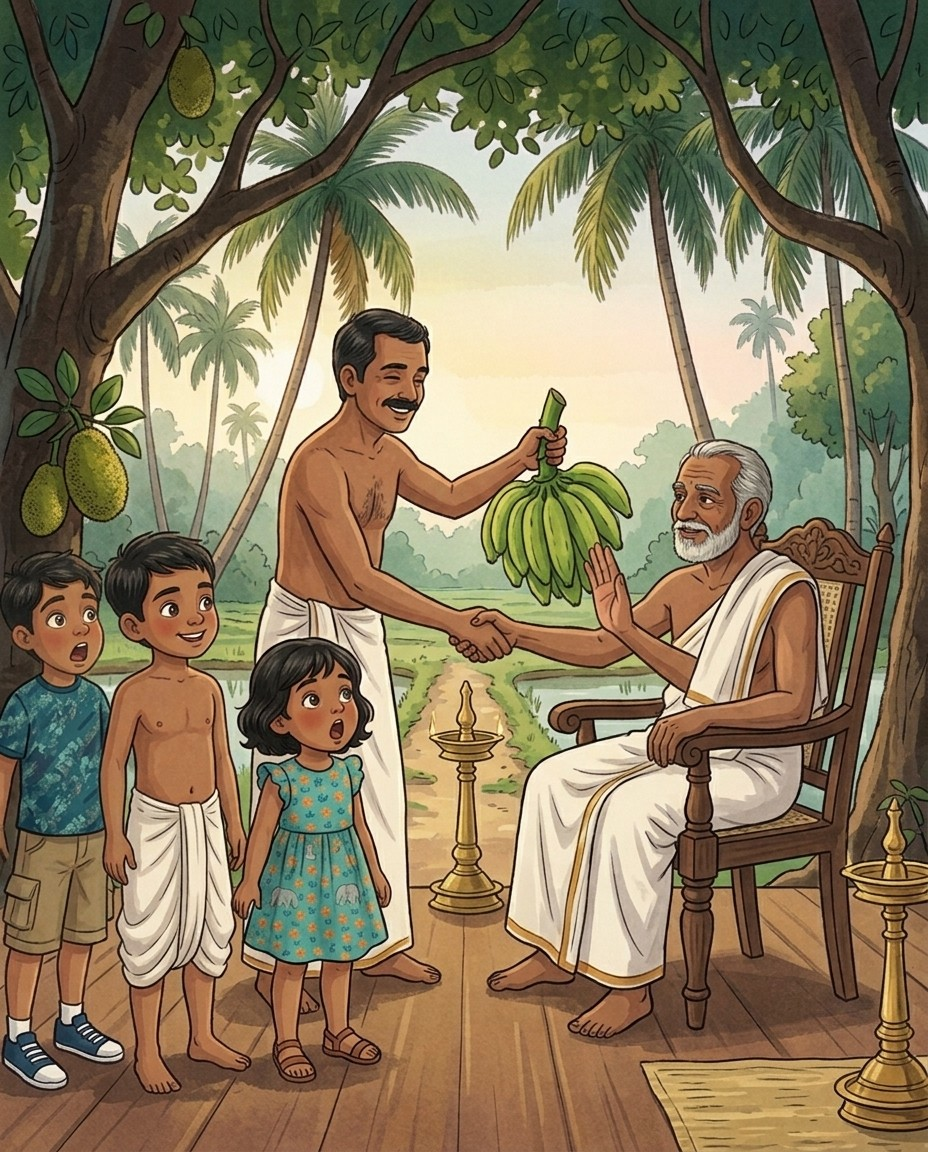
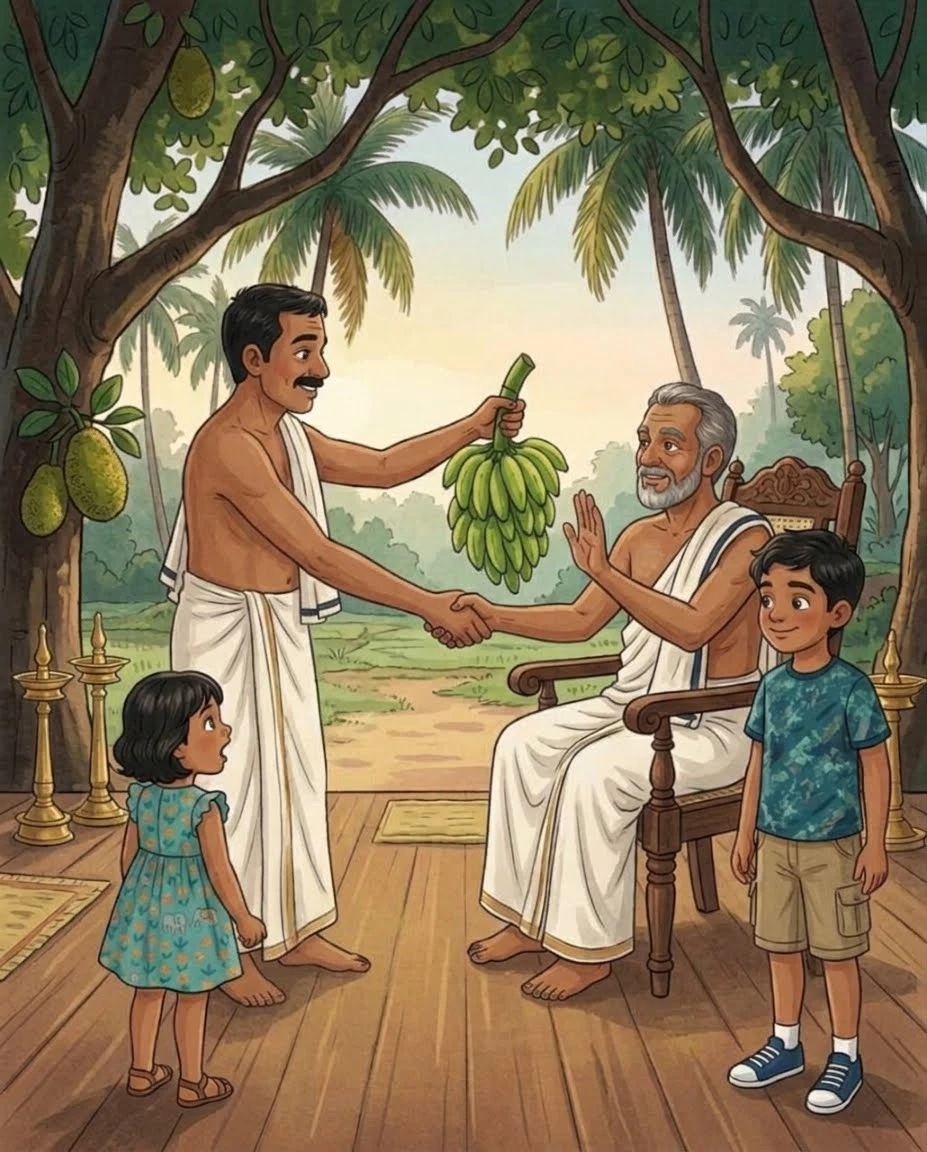
Comic: name Appu and Achu, fix panels 8 and 9, add share sheets
- Speech bubbles now name the children (Appu, Achu); names set once in
  story.js, which both the viewer and the share sheet read from
- Chapter captions moved above each picture in the viewer
- Panel 8: single little sister; panel 9: removed anachronistic skyline
- sheet.html renders the whole comic on one page; share/ holds the
  English and Malayalam share images

diff --git a/comics/chiyyaram-childhood/index.html b/comics/chiyyaram-childhood/index.html
@@ -81,7 +81,7 @@
 <main>
   <p class="eyebrow">A comic for the grandchildren · Chapter 1</p>
   <h1>Back to Chiyyaram</h1>
-  <p class="subtitle">Two children, their grandfather's handwritten pages, and a trip to the early 1950s.</p>
+  <p class="subtitle">Appu, Achu, their grandfather's handwritten pages, and a trip to the early 1950s.</p>
   <p class="notice">This is an <strong>adaptation for children</strong>, not the memoir itself. The captions are quoted word for word from the chapter. The speech bubbles, the time travel and the pictures (AI-generated illustrations) are imagined. <a href="../../stories/chiyyaram-childhood.html">Read the original chapter →</a></p>
 
   <div class="controls">
@@ -111,50 +111,8 @@
 
 <footer>An ongoing family archive · Korappath, Chiyyaram, Thrissur</footer>
 
+<script src="story.js"></script>
 <script>
-// What the children call their grandfather. ⚠ Confirm with the family (Achachan / Appooppan / Muthachan…).
-var GRANDPA = 'Achachan';
-
-// Captions (ml / en) are VERBATIM from stories/chiyyaram-childhood.html. "…" marks words left out; nothing is reworded.
-// Bubbles and narration are invented for the comic.
-var PANELS = [
-  { alt: 'Two children lying on a tiled floor at night, reading a stack of handwritten pages.',
-    bubbles: [['Big brother', 'This is ' + GRANDPA + "'s book. He's writing about when he was little."], ['Little sister', 'Read it to me!']] },
-  { alt: 'Golden ribbons of light rise from the pages and swirl around the amazed children.',
-    bubbles: [['Little sister', 'Chettaa… the letters are flying!']] },
-  { alt: 'The two children on a ridge between misty paddy fields at sunrise, egrets nearby.',
-    ml: 'ഞാൻ ജനിച്ചതും വളർന്നതും ചിയ്യാരം എന്നൊരു കുഗ്രാമത്തിലായിരുന്നു. കൊല്ലം 1945 സെപ്റ്റംബർ മാസം.',
-    en: 'I was born and raised in a small village called Chiyyaram, in September of the year 1945.' },
-  { alt: 'A village boy in a mundu stops on the ridge, staring at the two children.',
-    bubbles: [['Village boy', "Who are you? I've never seen you in Chiyyaram!"], ['Big brother (whispering)', 'Psst… I think that\'s ' + GRANDPA + '!', 'aside']] },
-  { alt: 'The village boy leads the children up a path toward a large tiled-roof ancestral home.',
-    ml: '…എന്റെ തറവാട് "കോരപ്പത്തു കളപ്പുരക്കൽ" ഞങ്ങളുടെ ഗ്രാമത്തിലും തൃശ്ശൂർ പരിസര പ്രദേശത്തും സാമാന്യം അറിയപ്പെട്ടിരുന്നതും…',
-    en: '…my ancestral home, "Korappath Kalappurakkal," was reasonably well known in our village and the surrounding Thrissur area…' },
-  { alt: 'Villagers wait on the wide wooden veranda while the three children peek from behind a pillar.',
-    ml: 'നാട്ടിലുള്ളവർ അവരുടെ പ്രശ്നങ്ങൾക്കും പരിതാപങ്ങൾക്കും അത്താണിയായിആവശ്യക്കാരെല്ലാം കണ്ടിരുന്നതും വലിയമ്മാവനെ തന്നെ ആയിരുന്നു.',
-    en: 'The people of the village saw him as their refuge for their troubles and grievances; everyone in need turned to my uncle himself.',
-    bubbles: [['Little sister', 'Why are all these people here?'], ['Village boy', "They've come to see Valiyammavan. Everyone does."]] },
-  { alt: 'The elder uncle sits calmly in a carved chair, listening to two farmers talking at once.',
-    ml: '…ആവശ്യക്കാരെല്ലാം മിക്ക ദിവസങ്ങളിലും അമ്മാവന്റെ സന്നിധിയിൽ എത്തുമായിരുന്നു തീർപ്പുകൾക്കായി.',
-    en: '…people in need would come to him on most days seeking resolutions.' },
-  { alt: 'A smiling farmer offers a bunch of bananas; the uncle raises his palm, kindly refusing.',
-    ml: 'ഒട്ടും പ്രതിഫലം പറ്റാതെ എല്ലാ തീർപ്പുകളും ഭംഗിയായി സന്ദർഭോചിതമായി അദ്ദേഹം നടത്തിയിരുന്നു.',
-    en: 'Without accepting any payment at all, he carried out every resolution gracefully and appropriately to the situation.',
-    bubbles: [['Little sister', 'He said no to the bananas!'], ['Big brother', 'He helps them for free.']] },
-  { alt: 'The uncle in white, holding a black umbrella, walks out of the gate while the children watch.',
-    ml: 'ചില ദിവസങ്ങളിൽ അവർക്കു വേണ്ടിയോ അന്യർക്കു വേണ്ടിയോ അമ്മാവൻ കോടതിയിൽ ഹാജരാകാറും ഉണ്ടായിരുന്നു. കോടതിയിലും വലിയ മതിപ്പുണ്ടായിരുന്നു അദ്ദേഹത്തിന്റെ ഇടപെടലുകൾക്ക്.',
-    en: 'On some days, my uncle would even appear in court, whether on their behalf or on behalf of others. Even in court, his interventions were held in great regard.' },
-  { alt: 'The three children, seen from behind, look out over wide green paddy fields and coconut groves.',
-    ml: 'കുടുംബപരമായി ഞങ്ങൾക്ക് ധാരാളം വസ്തുവകകളും പാട്ടഭൂമികളും കൃഷിയിടങ്ങളും ചുറ്റിലും പരിസര പ്രദേശങ്ങളിലും ഉണ്ടായിരുന്നു.',
-    en: 'As a family, we had a great deal of property, leased lands, and farmland in and around the surrounding areas.' },
-  { alt: 'At sunset the light swirls again; the little sister gives the village boy a sweet as everyone waves goodbye.',
-    bubbles: [['Little sister', 'Bye-bye, little ' + GRANDPA + '!'], ['Village boy (puzzled, waving)', 'Come back again!']] },
-  { alt: 'Back home, the children burst in; their grandfather looks up from his writing and smiles.',
-    bubbles: [['Big brother', GRANDPA + '! We saw Valiyammavan! He wouldn\'t even take the bananas!']],
-    narration: GRANDPA + ' looks up over his glasses, and smiles.',
-    end: true }
-];
-
 var current = 0;
 var lang = 'en';
 try { if (localStorage.getItem('korappath-lang') === 'ml') lang = 'ml'; } catch (e) {}

diff --git a/comics/chiyyaram-childhood/sheet.html b/comics/chiyyaram-childhood/sheet.html
@@ -1,0 +1,96 @@
+<!DOCTYPE html>
+<html lang="en">
+<head>
+<meta charset="UTF-8">
+<meta name="viewport" content="width=1200">
+<meta name="robots" content="noindex">
+<title>Back to Chiyyaram — share sheet</title>
+<!-- One-page layout of the whole comic, rendered to an image for sharing.
+     sheet.html = English captions, sheet.html?lang=ml = Malayalam captions.
+     Text comes from story.js (same source as the comic viewer). -->
+<link href="https://fonts.googleapis.com/css2?family=Fraunces:opsz,wght@9..144,400;9..144,600&family=Noto+Serif+Malayalam:wght@400;600&family=Work+Sans:wght@400;500&family=Space+Mono:wght@400;700&display=swap" rel="stylesheet">
+<style>
+  :root{
+    --oxide-dark:#3E1810; --oxide:#6B2A1E; --oxide-light:#8C3E2C;
+    --brass:#C6952F; --brass-light:#E8C776;
+    --ivory:#F1E9D6; --ivory-dim:#D8CBAE; --teak:#2B1D14;
+  }
+  *{ box-sizing:border-box; margin:0; padding:0; }
+  html,body{ width:1200px; background:var(--oxide-dark); color:var(--ivory); font-family:'Work Sans', sans-serif; }
+  .sheet{ padding:40px 40px 32px; }
+  header{ display:flex; justify-content:space-between; align-items:flex-end; gap:24px; padding-bottom:20px; margin-bottom:22px; border-bottom:1px solid rgba(198,149,47,0.4); }
+  .eyebrow{ font-family:'Space Mono', monospace; font-size:12px; letter-spacing:0.15em; text-transform:uppercase; color:var(--brass-light); }
+  h1{ font-family:'Fraunces', serif; font-weight:600; font-size:46px; line-height:1.1; margin:6px 0 4px; }
+  .mltitle{ font-family:'Noto Serif Malayalam', serif; font-size:19px; color:var(--ivory-dim); }
+  .by{ text-align:right; font-size:13px; color:var(--ivory-dim); line-height:1.5; max-width:380px; }
+  .by strong{ color:var(--ivory); font-weight:500; }
+
+  .grid{ display:grid; grid-template-columns:repeat(4, 1fr); gap:16px; align-items:stretch; }
+  .cell{ background:var(--oxide); border:1px solid rgba(198,149,47,0.35); border-radius:4px; overflow:hidden; }
+  .cell.wide{ grid-column:span 2; }
+  .cell img{ display:block; width:100%; height:330px; object-fit:cover; }
+  .body{ padding:10px 12px 12px; }
+  .num{ font-family:'Space Mono', monospace; font-size:10px; letter-spacing:0.12em; color:var(--brass-light); margin-bottom:6px; }
+  .cap{ background:var(--ivory); color:var(--teak); padding:7px 9px; border-radius:2px; box-shadow:2px 2px 0 var(--brass); font-family:'Fraunces', serif; font-size:13px; line-height:1.45; margin-bottom:8px; }
+  .cap.ml{ font-family:'Noto Serif Malayalam', serif; font-size:12.5px; line-height:1.75; }
+  .say{ font-size:13px; line-height:1.4; margin-bottom:5px; }
+  .say b{ font-family:'Space Mono', monospace; font-weight:400; font-size:9.5px; letter-spacing:0.08em; text-transform:uppercase; color:var(--brass-light); display:block; }
+  .narr{ font-style:italic; font-size:13px; color:var(--ivory-dim); margin-bottom:6px; }
+
+  .endcard{ grid-column:span 2; align-self:stretch; display:flex; flex-direction:column; justify-content:center; padding:28px; border:1px solid var(--brass); border-radius:4px; background:rgba(198,149,47,0.08); }
+  .endcard .tbc{ font-family:'Fraunces', serif; font-size:28px; color:var(--brass-light); margin:6px 0 14px; }
+  .endcard p{ font-size:14px; color:var(--ivory-dim); line-height:1.55; margin-bottom:10px; }
+  .endcard .url{ font-family:'Space Mono', monospace; font-size:15px; color:var(--ivory); }
+  footer{ margin-top:22px; padding-top:14px; border-top:1px solid rgba(198,149,47,0.25); font-size:11.5px; color:var(--ivory-dim); text-align:center; }
+</style>
+</head>
+<body>
+<div class="sheet">
+  <header>
+    <div>
+      <div class="eyebrow">A comic for the grandchildren · Chapter 1</div>
+      <h1>Back to Chiyyaram</h1>
+      <div class="mltitle" lang="ml">ചിയ്യാരത്തിലെ എന്റെ ബാല്യകാലം</div>
+    </div>
+    <div class="by">Adapted from the memoir of<br><strong>Korappath Kalapurakal Sudhakara Menon</strong></div>
+  </header>
+
+  <div class="grid" id="grid"></div>
+
+  <footer>An adaptation for children. Captions are quoted word for word from the chapter; the speech bubbles, the time travel and the AI-generated illustrations are imagined.</footer>
+</div>
+
+<script src="story.js"></script>
+<script>
+var lang = /[?&]lang=ml\b/.test(location.search) ? 'ml' : 'en';
+var WIDE = { 3: true, 10: true };   // the 16:9 panels span two columns
+function esc(s) { var d = document.createElement('div'); d.textContent = s; return d.innerHTML; }
+
+var html = '';
+PANELS.forEach(function (p, i) {
+  var n = i + 1, body = '';
+  if (p.ml || p.en) {
+    body += lang === 'ml' ? '<div class="cap ml" lang="ml">' + esc(p.ml) + '</div>'
+                          : '<div class="cap">' + esc(p.en) + '</div>';
+  }
+  if (p.narration) body += '<div class="narr">' + esc(p.narration) + '</div>';
+  (p.bubbles || []).forEach(function (b) {
+    body += '<div class="say"><b>' + esc(b[0]) + '</b>' + esc(b[1]) + '</div>';
+  });
+  html += '<div class="cell' + (WIDE[n] ? ' wide' : '') + '">' +
+          '<img src="panels/panel-' + (n < 10 ? '0' : '') + n + '.jpg" alt="' + esc(p.alt) + '">' +
+          '<div class="body"><div class="num">' + n + '</div>' + body + '</div></div>';
+});
+html += '<div class="endcard"><div class="eyebrow">To be continued</div>' +
+        '<div class="tbc">Next time: who was Appuman?</div>' +
+        '<p>Read the full comic, and every chapter of the memoir in Malayalam and English, at</p>' +
+        '<div class="url">korappath.com</div></div>';
+document.getElementById('grid').innerHTML = html;
+
+// Report the finished height in the title so the render script can size the screenshot.
+Promise.all([document.fonts.ready].concat(Array.prototype.map.call(document.images, function (im) {
+  return im.complete ? 0 : new Promise(function (r) { im.onload = im.onerror = r; });
+}))).then(function () { document.title = 'H:' + Math.ceil(document.querySelector('.sheet').getBoundingClientRect().height); });
+</script>
+</body>
+</html>

diff --git a/comics/chiyyaram-childhood/story.js b/comics/chiyyaram-childhood/story.js
@@ -1,0 +1,47 @@
+// Shared by index.html (the comic viewer) and sheet.html (the one-page share image).
+// What the children call their grandfather. ⚠ Confirm with the family (Achachan / Appooppan / Muthachan…).
+var GRANDPA = 'Achachan';
+
+// The two children: the older brother (10) and the little sister (4).
+var APPU = 'Appu';
+var ACHU = 'Achu';
+
+// Captions (ml / en) are VERBATIM from stories/chiyyaram-childhood.html. "…" marks words left out; nothing is reworded.
+// Bubbles and narration are invented for the comic.
+var PANELS = [
+  { alt: 'Two children lying on a tiled floor at night, reading a stack of handwritten pages.',
+    bubbles: [[APPU, 'This is ' + GRANDPA + "'s book. He's writing about when he was little."], [ACHU, 'Read it to me!']] },
+  { alt: 'Golden ribbons of light rise from the pages and swirl around the amazed children.',
+    bubbles: [[ACHU, 'Chettaa… the letters are flying!']] },
+  { alt: 'The two children on a ridge between misty paddy fields at sunrise, egrets nearby.',
+    ml: 'ഞാൻ ജനിച്ചതും വളർന്നതും ചിയ്യാരം എന്നൊരു കുഗ്രാമത്തിലായിരുന്നു. കൊല്ലം 1945 സെപ്റ്റംബർ മാസം.',
+    en: 'I was born and raised in a small village called Chiyyaram, in September of the year 1945.' },
+  { alt: 'A village boy in a mundu stops on the ridge, staring at the two children.',
+    bubbles: [['Village boy', "Who are you? I've never seen you in Chiyyaram!"], [APPU + ' (whispering)', ACHU + '… I think that\'s ' + GRANDPA + '!', 'aside']] },
+  { alt: 'The village boy leads the children up a path toward a large tiled-roof ancestral home.',
+    ml: '…എന്റെ തറവാട് "കോരപ്പത്തു കളപ്പുരക്കൽ" ഞങ്ങളുടെ ഗ്രാമത്തിലും തൃശ്ശൂർ പരിസര പ്രദേശത്തും സാമാന്യം അറിയപ്പെട്ടിരുന്നതും…',
+    en: '…my ancestral home, "Korappath Kalappurakkal," was reasonably well known in our village and the surrounding Thrissur area…' },
+  { alt: 'Villagers wait on the wide wooden veranda while the three children peek from behind a pillar.',
+    ml: 'നാട്ടിലുള്ളവർ അവരുടെ പ്രശ്നങ്ങൾക്കും പരിതാപങ്ങൾക്കും അത്താണിയായിആവശ്യക്കാരെല്ലാം കണ്ടിരുന്നതും വലിയമ്മാവനെ തന്നെ ആയിരുന്നു.',
+    en: 'The people of the village saw him as their refuge for their troubles and grievances; everyone in need turned to my uncle himself.',
+    bubbles: [[ACHU, 'Why are all these people here?'], ['Village boy', "They've come to see Valiyammavan. Everyone does."]] },
+  { alt: 'The elder uncle sits calmly in a carved chair, listening to two farmers talking at once.',
+    ml: '…ആവശ്യക്കാരെല്ലാം മിക്ക ദിവസങ്ങളിലും അമ്മാവന്റെ സന്നിധിയിൽ എത്തുമായിരുന്നു തീർപ്പുകൾക്കായി.',
+    en: '…people in need would come to him on most days seeking resolutions.' },
+  { alt: 'A smiling farmer offers a bunch of bananas; the uncle raises his palm, kindly refusing.',
+    ml: 'ഒട്ടും പ്രതിഫലം പറ്റാതെ എല്ലാ തീർപ്പുകളും ഭംഗിയായി സന്ദർഭോചിതമായി അദ്ദേഹം നടത്തിയിരുന്നു.',
+    en: 'Without accepting any payment at all, he carried out every resolution gracefully and appropriately to the situation.',
+    bubbles: [[ACHU, 'He said no to the bananas!'], [APPU, 'He helps them for free.']] },
+  { alt: 'The uncle in white, holding a black umbrella, walks out of the gate while the children watch.',
+    ml: 'ചില ദിവസങ്ങളിൽ അവർക്കു വേണ്ടിയോ അന്യർക്കു വേണ്ടിയോ അമ്മാവൻ കോടതിയിൽ ഹാജരാകാറും ഉണ്ടായിരുന്നു. കോടതിയിലും വലിയ മതിപ്പുണ്ടായിരുന്നു അദ്ദേഹത്തിന്റെ ഇടപെടലുകൾക്ക്.',
+    en: 'On some days, my uncle would even appear in court, whether on their behalf or on behalf of others. Even in court, his interventions were held in great regard.' },
+  { alt: 'The three children, seen from behind, look out over wide green paddy fields and coconut groves.',
+    ml: 'കുടുംബപരമായി ഞങ്ങൾക്ക് ധാരാളം വസ്തുവകകളും പാട്ടഭൂമികളും കൃഷിയിടങ്ങളും ചുറ്റിലും പരിസര പ്രദേശങ്ങളിലും ഉണ്ടായിരുന്നു.',
+    en: 'As a family, we had a great deal of property, leased lands, and farmland in and around the surrounding areas.' },
+  { alt: 'At sunset the light swirls again; the little sister gives the village boy a sweet as everyone waves goodbye.',
+    bubbles: [[ACHU, 'Bye-bye, little ' + GRANDPA + '!'], ['Village boy (puzzled, waving)', 'Come back again!']] },
+  { alt: 'Back home, the children burst in; their grandfather looks up from his writing and smiles.',
+    bubbles: [[APPU, GRANDPA + '! We saw Valiyammavan! He wouldn\'t even take the bananas!']],
+    narration: GRANDPA + ' looks up over his glasses, and smiles.',
+    end: true }
+];

diff --git a/comics/chiyyaram-childhood-script.md b/comics/chiyyaram-childhood-script.md
@@ -1,7 +1,7 @@
 # Comic script — Chapter 1: My childhood in Chiyyaram
 *Working script behind the published comic at `comics/chiyyaram-childhood/index.html` (Raju chose to make it public, 2026-11-15). The page's `PANELS` array is the live version of the captions and bubbles; keep this file for reference when adapting later chapters.*
 
-**Premise:** [NEPHEW] (10) and [NIECE] (4) find their grandfather's handwritten memoir pages. The pages carry them back to Chiyyaram around 1952, where they meet their grandfather as a small boy and watch Valiyammavan, Govinda Menon, settle the village's troubles.
+**Premise:** Appu (10) and Achu (4) find their grandfather's handwritten memoir pages. The pages carry them back to Chiyyaram around 1952, where they meet their grandfather as a small boy and watch Valiyammavan, Govinda Menon, settle the village's troubles.
 
 ## How to read this script
 
@@ -21,8 +21,8 @@
 *Tip: many image tools refuse or water down "in the style of Studio Ghibli". Describing the qualities, as above, works better and keeps the art your own.*
 
 ### Character sheets (generate these first, then attach them to every panel prompt)
-1. **[NEPHEW], 10:** upload a photo. *"Character turnaround sheet of this boy as a 10-year-old animated character, front/side/back, modern casual clothes, [style block]."*
-2. **[NIECE], 4:** upload a photo. *Same prompt, "4-year-old girl".*
+1. **Appu, 10:** upload a photo. *"Character turnaround sheet of this boy as a 10-year-old animated character, front/side/back, modern casual clothes, [style block]."*
+2. **Achu, 4:** upload a photo. *Same prompt, "4-year-old girl".*
 3. **Young Achachan, about 7 years old in 1952:** ⚠ Does a childhood photo of Achan exist? Otherwise: *"Slim Kerala boy, about 7, close-cropped hair, white mundu folded at the knee, bare feet, bright curious eyes, 1950s."*
 4. **Valiyammavan, Govinda Menon:** ⚠ **We have no description of him.** Is there a photo, or can Achan describe him? Placeholder: *"Dignified Kerala man in his 50s, white mundu and veshti over one shoulder, calm, kind face, 1950s."*
 
@@ -32,13 +32,13 @@
 
 ### Panel 1: Today, Achachan's house
 Evening. The kids are sprawled on the floor beside a stack of handwritten Malayalam pages and an old fountain pen.
-- **SAYS [NEPHEW]:** "This is Achachan's book. He's writing about when he was little."
-- **SAYS [NIECE]:** "Read it to me!"
+- **SAYS Appu:** "This is Achachan's book. He's writing about when he was little."
+- **SAYS Achu:** "Read it to me!"
 - *Prompt:* Two children lying on a tiled floor in a modern Kerala home at dusk, reading a stack of handwritten Malayalam pages, warm lamp light, [style block].
 
 ### Panel 2: The pages glow
 The ink lifts off the paper and swirls around the kids like fireflies. Wind ruffles their hair.
-- **SAYS [NIECE]:** "Chettaa… the letters are flying!"
+- **SAYS Achu:** "Chettaa… the letters are flying!"
 - *Prompt:* Glowing ink-like swirls of light rising from paper pages and wrapping around two amazed children, magical, [style block].
 
 ### Panel 3: Chiyyaram (splash page)
@@ -51,7 +51,7 @@ They land on a paddy-field bund. Green fields, coconut palms, a distant temple l
 ### Panel 4: Meeting a boy
 A small boy in a mundu runs along the bund and stops, staring at their strange clothes.
 - **SAYS BOY:** "Who are you? I've never seen you in Chiyyaram!"
-- **SAYS [NEPHEW] (whispering):** "[NIECE]… I think that's *Achachan*."
+- **SAYS Appu (whispering):** "Achu… I think that's *Achachan*."
 - ⚠ What was Achan called as a child at home? A pet name would be lovely here.
 
 ### Panel 5: The tharavad
@@ -65,7 +65,7 @@ The boy leads them to the family house.
 On the veranda, villagers sit and stand, waiting.
 - **CAPTION ML:** നാട്ടിലുള്ളവർ അവരുടെ പ്രശ്നങ്ങൾക്കും പരിതാപങ്ങൾക്കും അത്താണിയായിആവശ്യക്കാരെല്ലാം കണ്ടിരുന്നതും വലിയമ്മാവനെ തന്നെ ആയിരുന്നു.
 - **CAPTION EN:** The people of the village saw him as their refuge for their troubles and grievances; everyone in need turned to my uncle himself.
-- **SAYS [NIECE]:** "Why are all these people here?"
+- **SAYS Achu:** "Why are all these people here?"
 - **SAYS BOY:** "They've come to see Valiyammavan. Everyone does."
 - 📝 *Note: the original Malayalam has "അത്താണിയായിആവശ്യക്കാരെല്ലാം" written without a space. I've quoted it exactly as Achan wrote it.*
 
@@ -80,8 +80,8 @@ Govinda Menon sits on the veranda, calmly listening to two farmers who are both 
 The problem is solved and the farmers shake hands. One offers a bunch of bananas; Valiyammavan gently pushes it back.
 - **CAPTION ML:** ഒട്ടും പ്രതിഫലം പറ്റാതെ എല്ലാ തീർപ്പുകളും ഭംഗിയായി സന്ദർഭോചിതമായി അദ്ദേഹം നടത്തിയിരുന്നു.
 - **CAPTION EN:** Without accepting any payment at all, he carried out every resolution gracefully and appropriately to the situation.
-- **SAYS [NIECE]:** "He said no to the bananas!"
-- **SAYS [NEPHEW]:** "He helps them for free."
+- **SAYS Achu:** "He said no to the bananas!"
+- **SAYS Appu:** "He helps them for free."
 - ⚠ The bananas are my invention, a visual way to show "no payment" to a 4-year-old.
 
 ### Panel 9: Off to court
@@ -97,13 +97,13 @@ The three children on a hilltop or field ridge, looking out over fields, coconut
 
 ### Panel 11: Goodbye at sunset
 The pages start glowing again. The niece gives the boy something, such as a hair clip or a sweet from her pocket.
-- **SAYS [NIECE]:** "Bye-bye, little Achachan!"
+- **SAYS Achu:** "Bye-bye, little Achachan!"
 - **SAYS BOY (puzzled, waving):** "Come back again!"
 - ⚠ The boy's lines throughout are invented. I've kept them minimal on purpose so we don't put meaningful words in Achan's mouth. Strike any you don't like.
 
 ### Panel 12: Back home
 The kids burst into the room where today's Achachan sits writing.
-- **SAYS [NEPHEW]:** "Achacha! We saw Valiyammavan! He wouldn't even take the bananas!"
+- **SAYS Appu:** "Achacha! We saw Valiyammavan! He wouldn't even take the bananas!"
 - Achachan looks up over his glasses and smiles. (No line for him unless he'd like to write his own; that would be lovely.)
 - **Final tiny panel:** the next page of the notebook reads "Appuman…" *To be continued in Chapter 2.*
 
